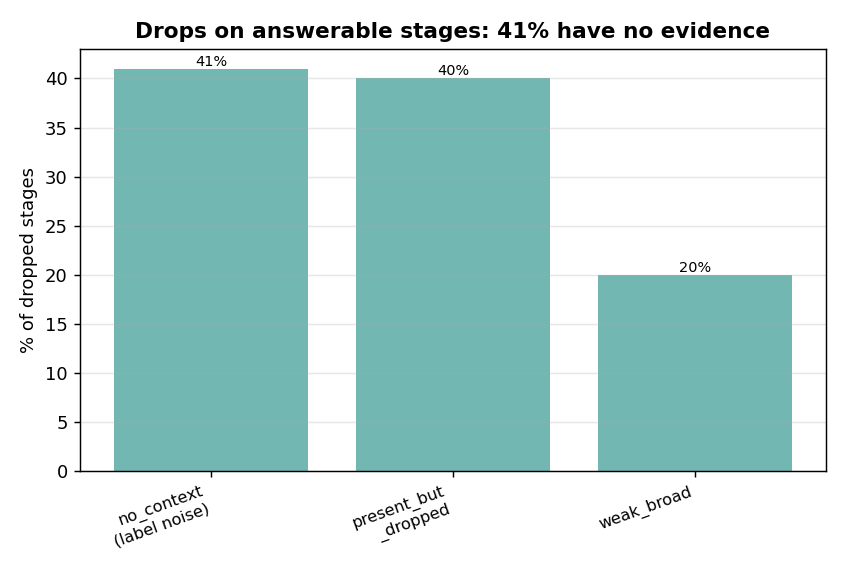
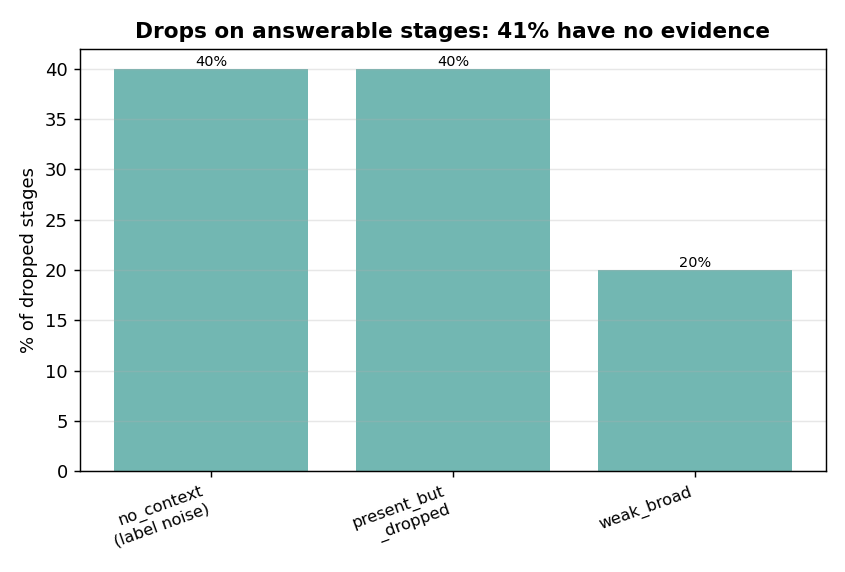
Stage EDA: largest-remainder rounding so shares sum to 100
Swap (picks_more_specific 36->35) and grounding (no_context 41->40) now sum to exactly 100% via
largest-remainder rounding. Charts + tables updated, re-rendered.

diff --git a/scripts/build_stage_charts.py b/scripts/build_stage_charts.py
@@ -82,8 +82,8 @@ def fn_breakdown() -> None:
 
 
 # Drop grounding AFTER prune (answerable stages only).
-GROUNDING = [
-    ("no_context\n(label noise)", 41), ("present_but\n_dropped", 40), ("weak_broad", 20),
+GROUNDING = [  # largest-remainder rounding -> sums to 100
+    ("no_context\n(label noise)", 40), ("present_but\n_dropped", 40), ("weak_broad", 20),
 ]
 
 
@@ -105,7 +105,7 @@ _SWAP_N = sum(v for _, v in SWAP)
 
 def swap() -> None:
     labels = [r[0] for r in SWAP]
-    pct = [100 * v / _SWAP_N for _, v in SWAP]
+    pct = [35, 26, 24, 11, 4]  # largest-remainder rounding -> sums to 100
     fig, ax = plt.subplots(figsize=(8, 4.4))
     _bar(ax, labels, pct, "% of drops",
          f"Why the picks beat each dropped stage (n={_SWAP_N})", fmt="{:.0f}%",

diff --git a/docs/stage_selection_eda.md b/docs/stage_selection_eda.md
@@ -106,22 +106,21 @@ model change. The post-prune numbers are the **fair baseline**: the model agains
 
 ![Grounding](stage_charts/grounding.png)
 
-On the answerable stages (post-prune), the drops break down as (n = 259 classified; shares rounded):
+On the answerable stages (post-prune), the drops break down as (n = 259 classified):
 
 | grounding | count | share | meaning |
 |---|---|---|---|
-| **no_context_for_stage** | 105 | **41%** | no ticket evidence — the BA's outside-knowledge pick (label noise) |
+| **no_context_for_stage** | 105 | **40%** | no ticket evidence — the BA's outside-knowledge pick (label noise) |
 | context_present_but_dropped | 103 | 40% | evidence shown, dropped anyway |
 | weak_broad_context | 51 | 20% | borderline |
 
 ![Swap reasons](stage_charts/swap.png)
 
-And *why* the picks won over each dropped stage (n = 264; shares rounded to whole numbers, so they
-sum to ~101%):
+And *why* the picks won over each dropped stage (n = 264):
 
 | reason | count | share | read |
 |---|---|---|---|
-| picks_more_specific | 94 | 36% | the model picked a **better/narrower** stage — often the model being right |
+| picks_more_specific | 94 | 35% | the model picked a **better/narrower** stage — often the model being right |
 | no_evidence_for_dropped | 69 | 26% | nothing in the ticket points to the dropped stage |
 | dropped_too_broad | 63 | 24% | the GT stage is broad/adjacent, only loosely implied |
 | adjacent_stage_confusion | 28 | 11% | a neighbouring lifecycle stage picked instead (the one fixable lever) |